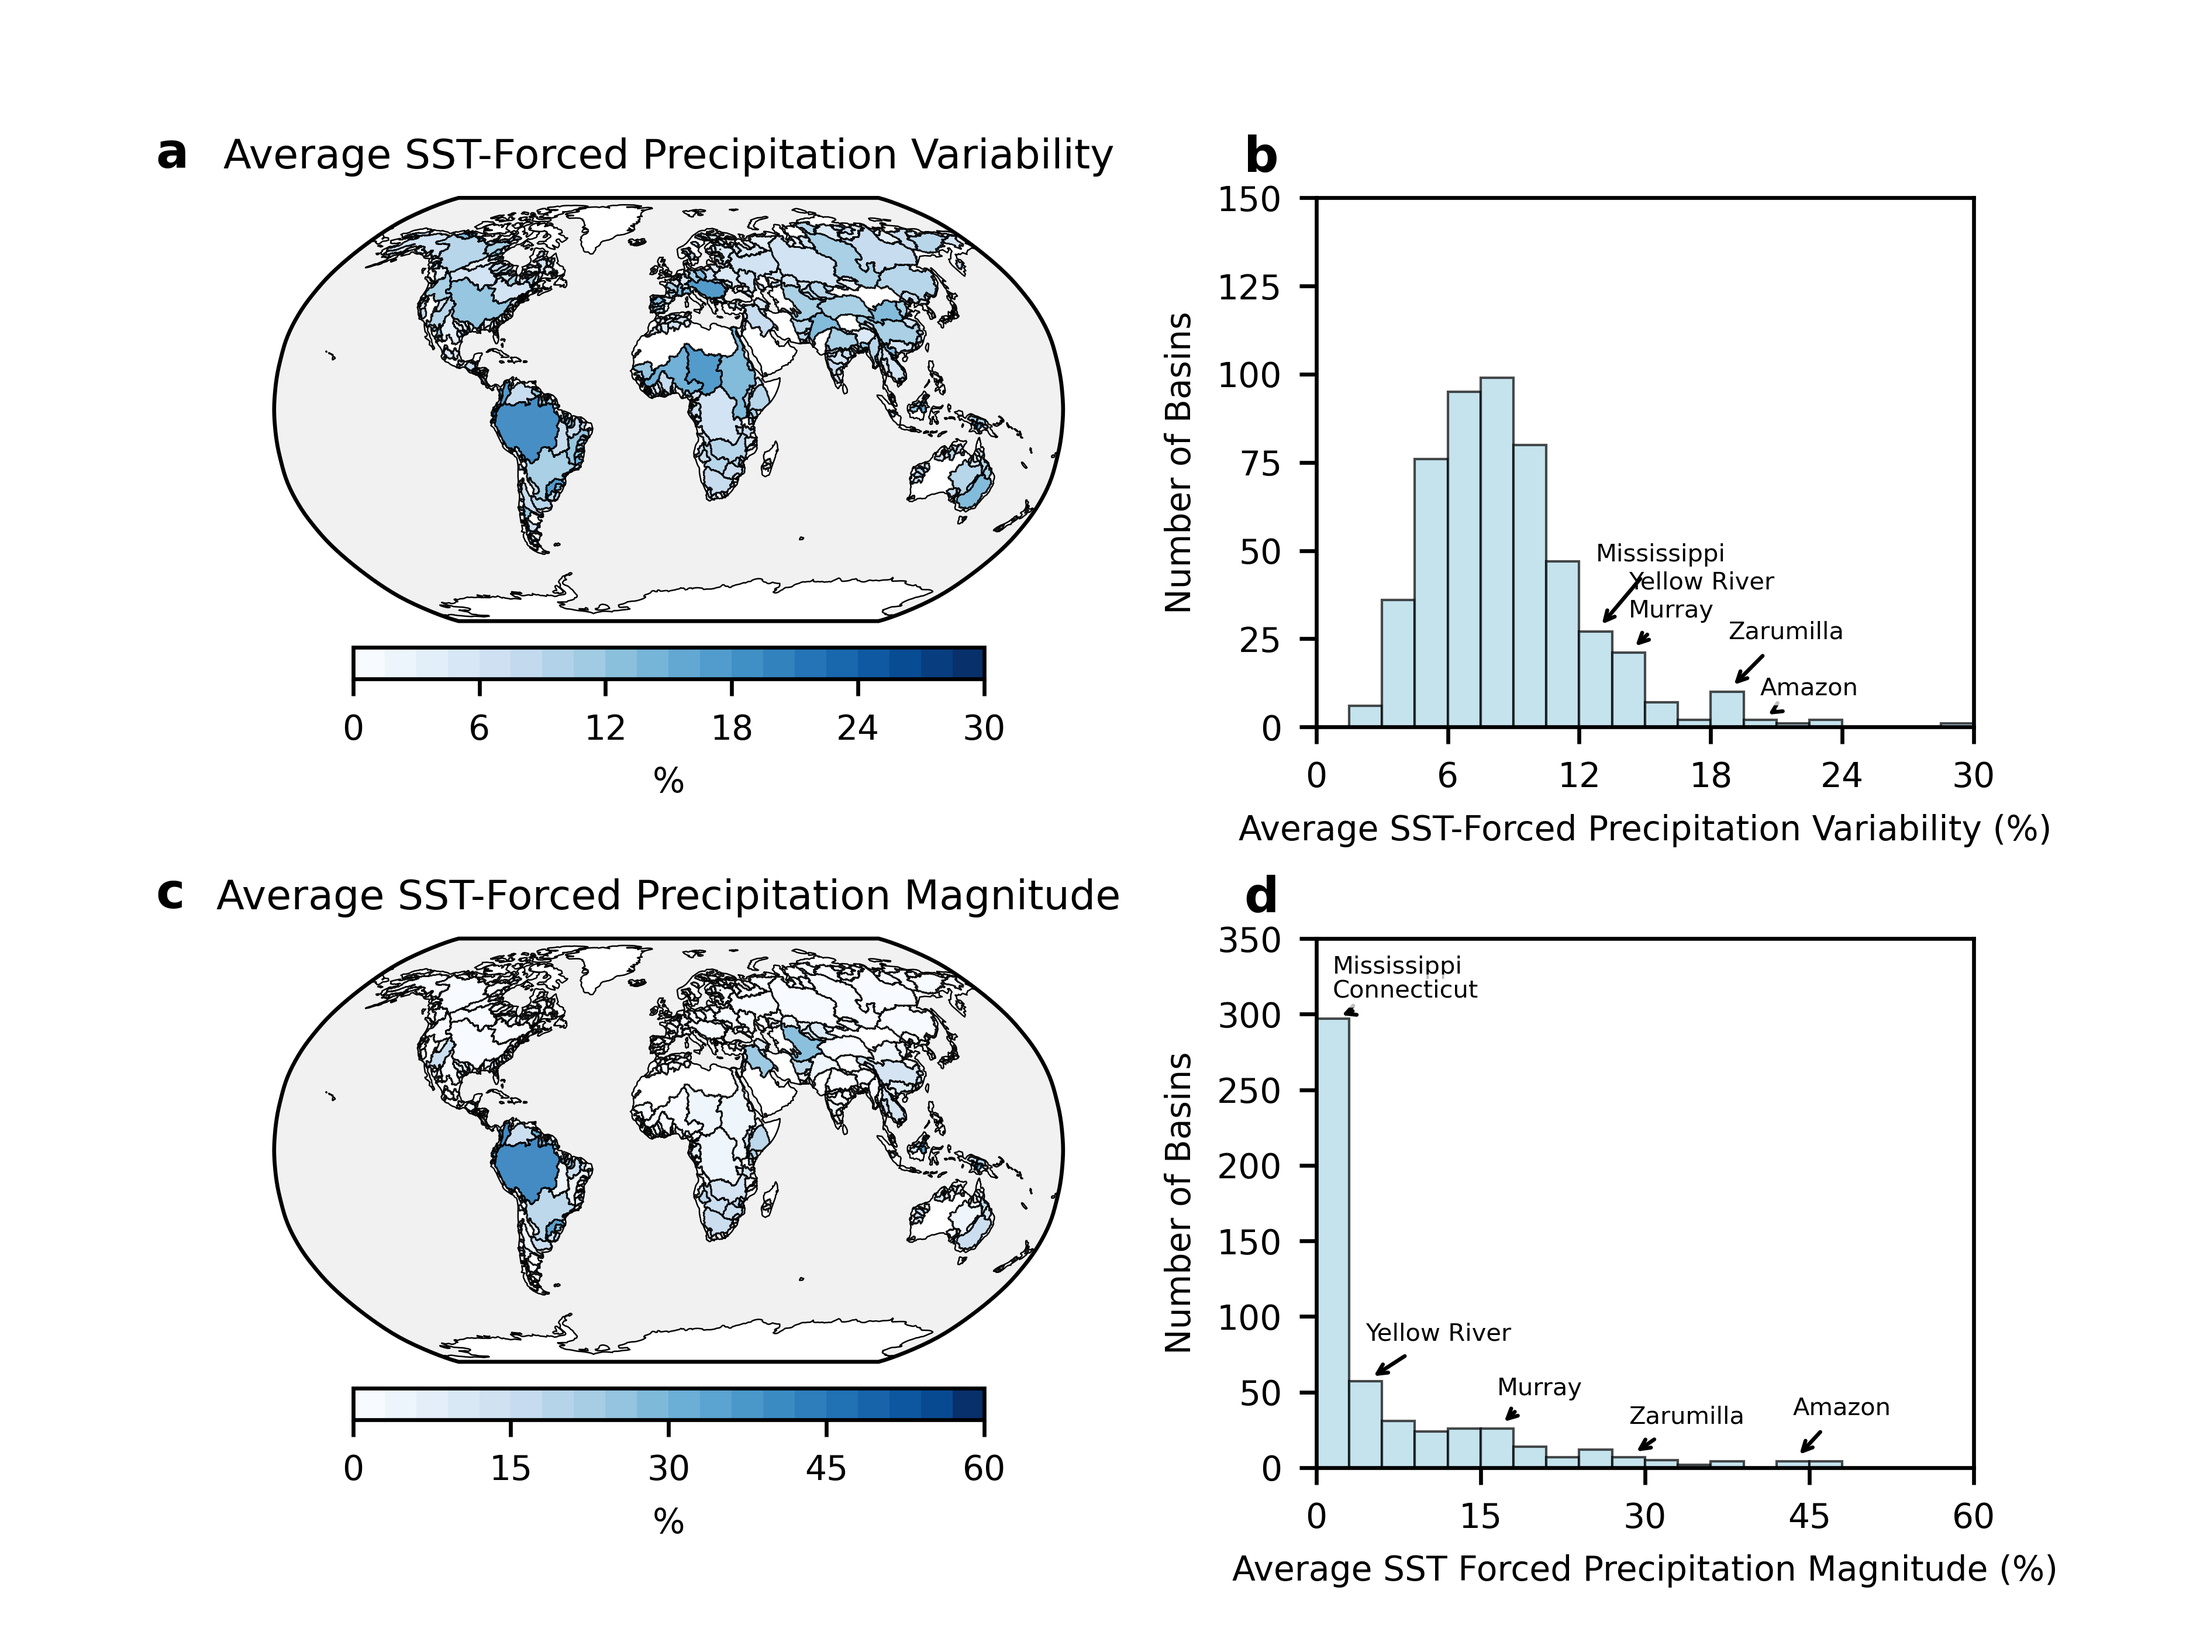
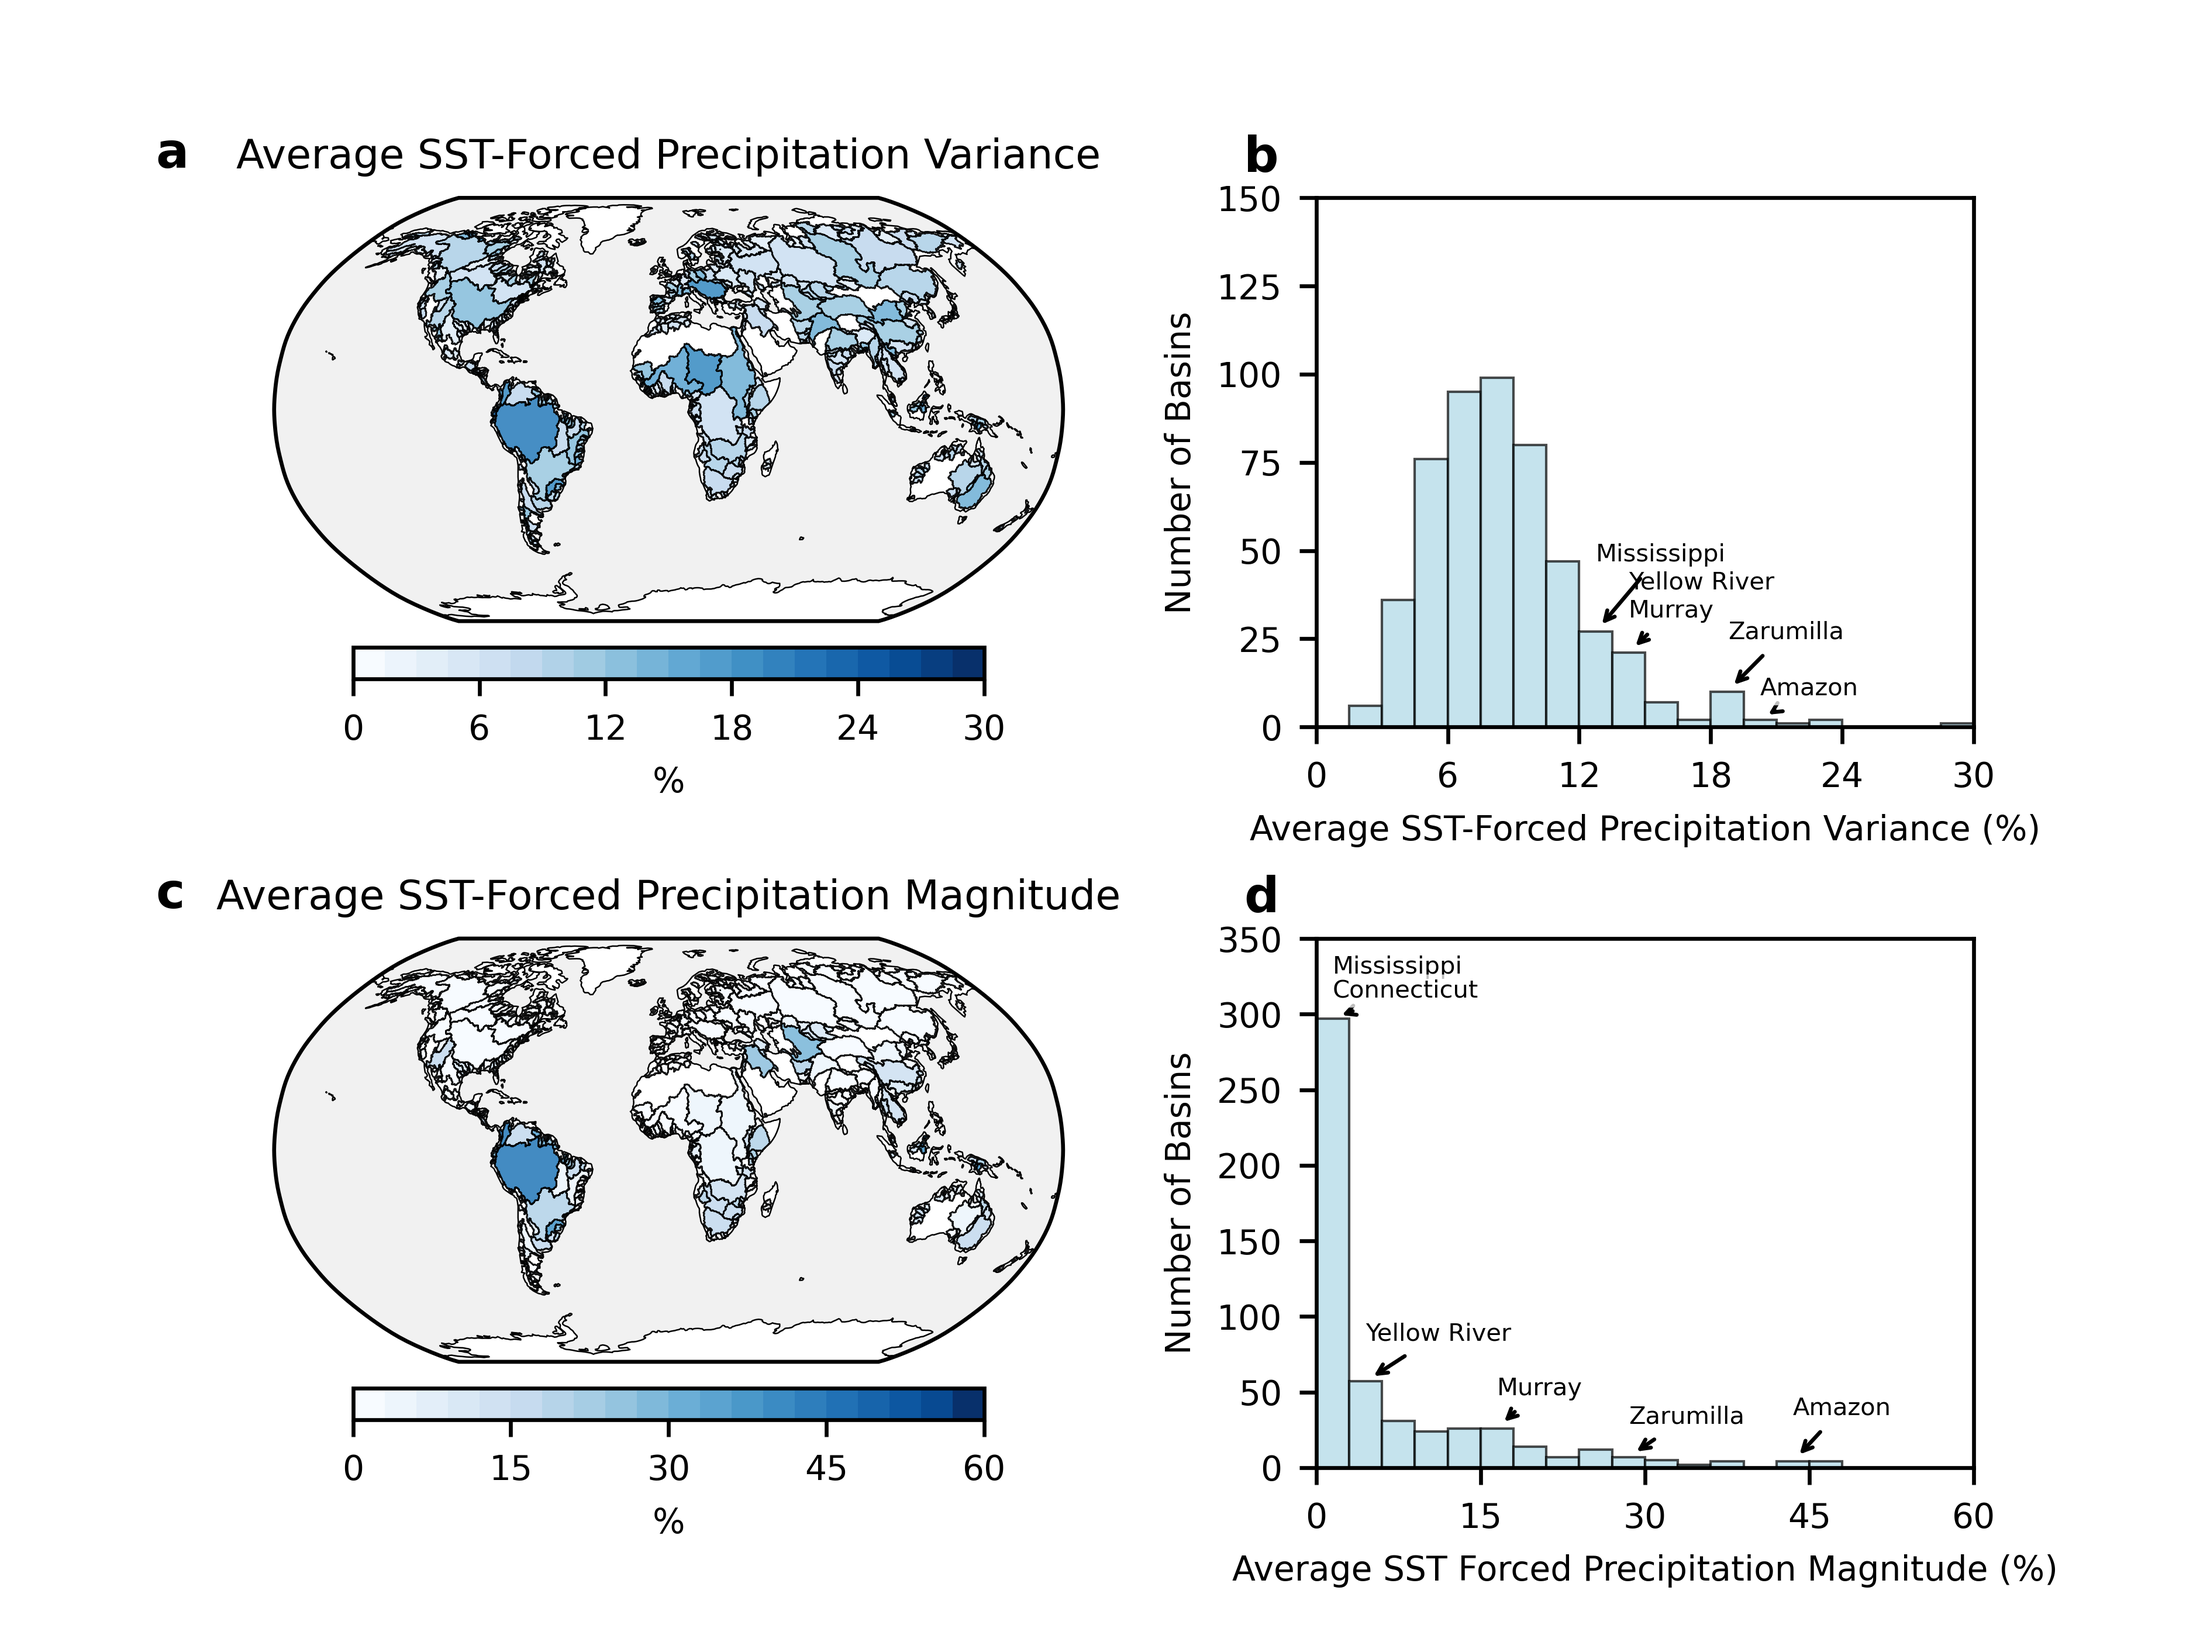
changes to figure 7

Changed region(s): [[0.1248, 0.0624, 0.4992, 0.1248], [0.5616, 0.4993, 0.936, 0.5305]]

diff --git a/code/figures/Figure_07_SST_Importance_by_Basin.py b/code/figures/Figure_07_SST_Importance_by_Basin.py
@@ -1,7 +1,7 @@
 #!/usr/bin/env python
 # coding: utf-8
 """
-Figure 7: SST-forced precipitation variability and magnitude by basin.
+Figure 7: SST-forced precipitation variance and magnitude by basin.
 
 Author: Flora Perlmutter
 
@@ -9,7 +9,7 @@ Description
 -----------
 4-panel figure summarising across-basin SST importance:
   Panel A: Map of ensemble mean correlation^2 between SST reconstruction
-           and observed precipitation (SST-forced variability %)
+           and observed precipitation (SST-forced variance %)
   Panel B: Histogram of the same correlation^2, with selected basins annotated
   Panel C: Map of std(SST reconstruction) / std(observed precip) × 100
            (SST-forced magnitude %)
@@ -277,7 +277,7 @@ sm_corr = plt.cm.ScalarMappable(norm=corr_norm, cmap=corr_cmap)
 sm_corr.set_array([])
 cbar_map = fig.colorbar(sm_corr, ax=ax_map, ticks=[0, 6, 12, 18, 24, 30], 
                         orientation='horizontal', shrink=.8, pad=0.05)
-ax_map.set_title("Average SST-Forced Precipitation Variability")
+ax_map.set_title("Average SST-Forced Precipitation Variance")
 cbar_map.set_label("%")
 cbar_map.ax.minorticks_off()
 
@@ -292,7 +292,7 @@ corr_values = gdf_corr["r2"].dropna().values * 100
 hist_bins = np.linspace(0, 30, 21)  # Creates bins that align with 15% intervals
 n, bins, patches = ax_hist.hist(corr_values, bins=hist_bins, color="lightblue", linewidth=.5, 
                                  edgecolor="black", alpha=0.7)
-ax_hist.set_xlabel("Average SST-Forced Precipitation Variability (%)")
+ax_hist.set_xlabel("Average SST-Forced Precipitation Variance (%)")
 ax_hist.set_ylabel("Number of Basins")
 # Set x-axis ticks to match colorbar
 ax_hist.set_xticks([0, 6, 12, 18, 24, 30])
@@ -370,7 +370,7 @@ for basin_name in highlight_basins:
             arrowprops=dict(arrowstyle="->", lw=.8, color="black"),
             bbox=dict(facecolor='white', alpha=0.75, edgecolor='none', boxstyle="round,pad=0.2")
         )
-#ax_hist.set_title('Distribution of SST-Forced Precipitation Variabilities')
+#ax_hist.set_title('Distribution of SST-Forced Precipitation Variances')
 ax_hist.set_ylim(0, 150)
 ax_hist.set_xlim(0, 30)
 
@@ -499,7 +499,7 @@ for basin_name in highlight_basins_2:
         bbox=dict(facecolor='white', alpha=0.75, edgecolor='none', boxstyle="round,pad=0.2")
     )
     
-ax_hist_2.set_ylim(0, 300)
+ax_hist_2.set_ylim(0, 350)
 ax_hist_2.set_xlim(ratio_vmin, ratio_vmax)
     
 # Add panel labels
